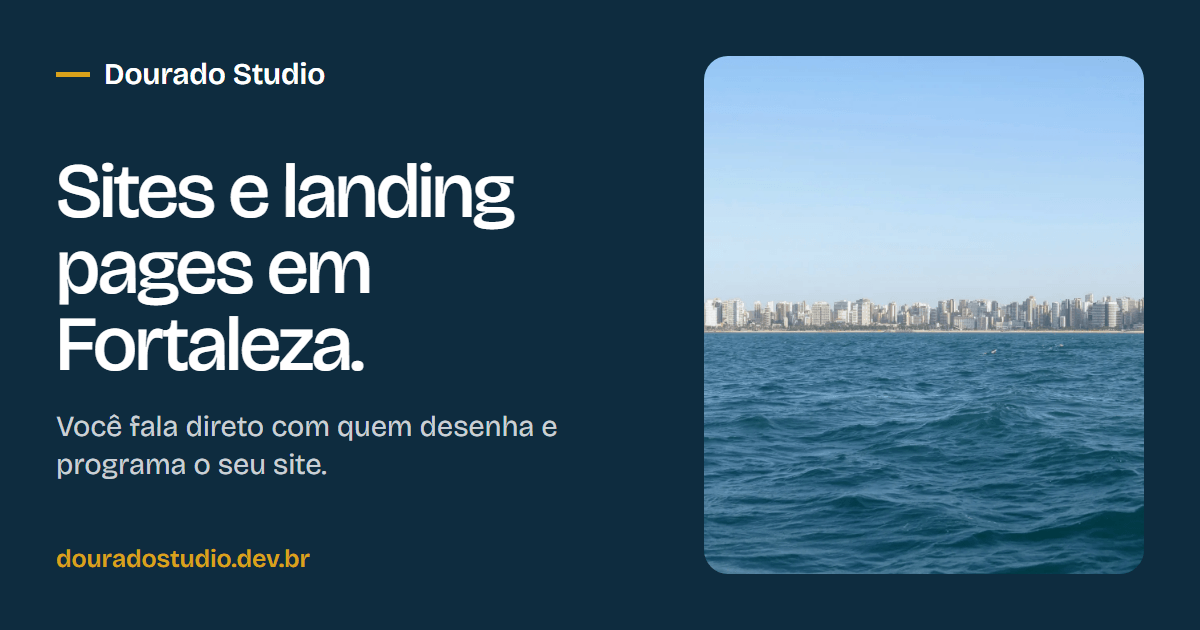
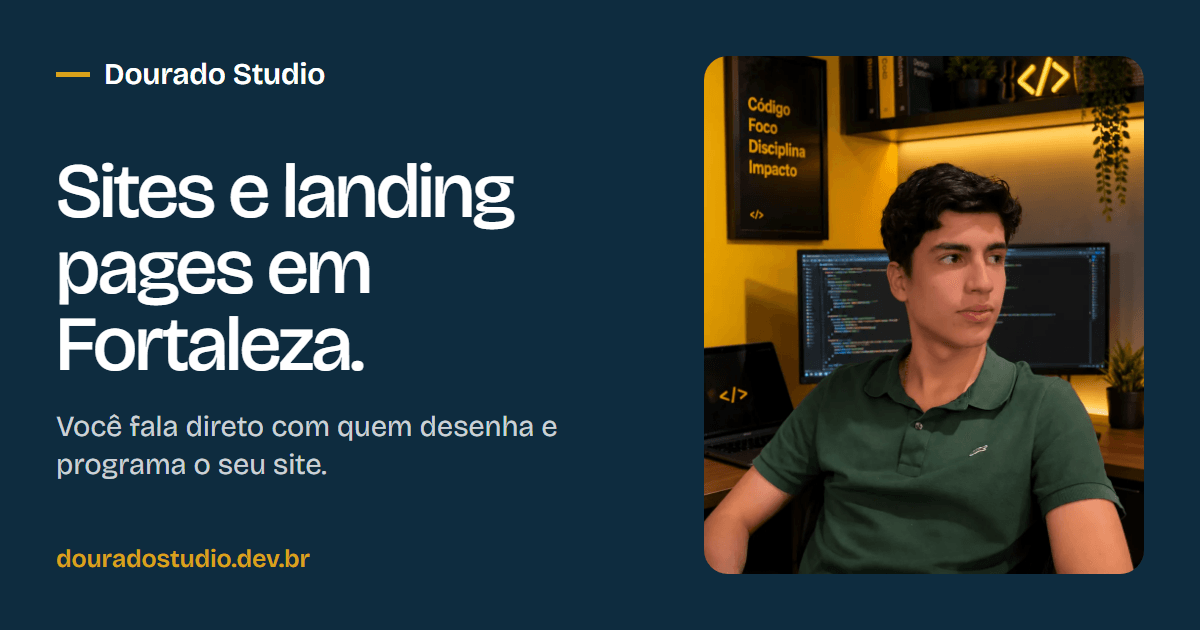
feat: foto do Vinícius na imagem de prévia

diff --git a/scripts/og-image.html b/scripts/og-image.html
@@ -19,6 +19,7 @@
       font-family: 'Bricolage', sans-serif;
       display: grid;
       grid-template-columns: 1fr 440px;
+      grid-template-rows: 518px;
       gap: 56px;
       padding: 56px;
     }
@@ -28,7 +29,7 @@
     h1 { font-size: 78px; font-weight: 500; line-height: 0.98; letter-spacing: -0.03em; }
     .lead { font-size: 29px; line-height: 1.3; margin-top: 26px; color: rgba(255, 255, 255, 0.78); }
     .domain { font-size: 25px; font-weight: 600; color: #D9A21B; }
-    img { width: 100%; height: 100%; object-fit: cover; border-radius: 24px; display: block; }
+    img { width: 440px; height: 518px; object-fit: cover; object-position: 50% 30%; border-radius: 24px; display: block; }
   </style>
 </head>
 <body>
@@ -40,6 +41,6 @@
     </div>
     <div class="domain">douradostudio.dev.br</div>
   </div>
-  <img src="../public/images/fortaleza/skyline-beira-mar.webp" alt="" />
+  <img src="../public/images/profile.webp" alt="" />
 </body>
 </html>

diff --git a/MEMORY.md b/MEMORY.md
@@ -110,3 +110,4 @@
   - Página `NotFound`, `404.html`, redirecionamentos de `/orcamento`, `/projects` e serviços antigos em `vercel.json`, HTML próprio para `/raio-x`.
   - Frase sobre Fortaleza nas introduções de 4 serviços (landing page, site institucional, campanha, presença digital).
   - JSON-LD com `WebSite`, `ProfessionalService` e `Person`, e teste `tests/structured-data.spec.ts`.
+  - `og-image.png` passa a usar a foto do Vinícius no lugar do mar (pedido dele: mais pessoal).
